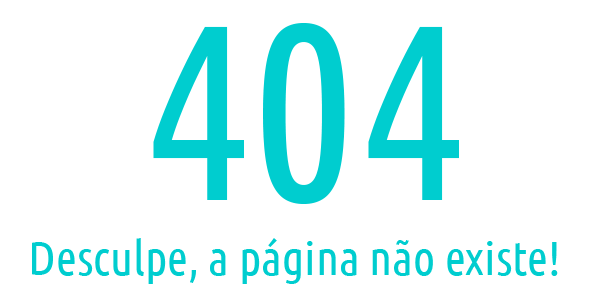
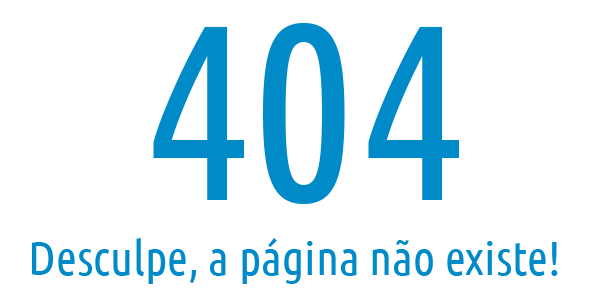
Cores do site finalizadas!

Changed region(s): [[0.24, 0.06, 0.78, 0.69], [0.03, 0.78, 0.93, 0.96]]

diff --git a/assets/css/main.css b/assets/css/main.css
@@ -1765,7 +1765,7 @@
 	}
 
 	a {
-		color: #00cdcf;
+		color: #008ac8;
 	}
 
 	strong, b {
@@ -1976,7 +1976,7 @@
 		input[type="button"].special,
 		button.special,
 		.button.special {
-			background-color: #00cdcf;
+			background-color: #008ac8;
 			color: #ffffff !important;
 		}
 
@@ -2220,8 +2220,8 @@
 		input[type="email"]:focus,
 		select:focus,
 		textarea:focus {
-			border-color: #00cdcf;
-			box-shadow: 0 0 0 1px #00cdcf;
+			border-color: #008ac8;
+			box-shadow: 0 0 0 1px #008ac8;
 		}
 
 	.select-wrapper:before {
@@ -2241,15 +2241,15 @@
 
 	input[type="checkbox"]:checked + label:before,
 	input[type="radio"]:checked + label:before {
-		background-color: #00cdcf;
-		border-color: #00cdcf;
+		background-color: #008ac8;
+		border-color: #008ac8;
 		color: #ffffff;
 	}
 
 	input[type="checkbox"]:focus + label:before,
 	input[type="radio"]:focus + label:before {
-		border-color: #00cdcf;
-		box-shadow: 0 0 0 1px #00cdcf;
+		border-color: #008ac8;
+		box-shadow: 0 0 0 1px #008ac8;
 	}
 
 	::-webkit-input-placeholder {
@@ -2752,7 +2752,7 @@
 	}
 
 		.feature .fa {
-			color: #00cdcf;
+			color: #008ac8;
 		}
 
 /* Wrapper */
@@ -2772,7 +2772,7 @@
 			}
 
 		.wrapper.style1 {
-			background-color: #00cdcf;
+			background-color: #008ac8;
 			color: #ffffff;
 		}
 
@@ -2781,7 +2781,7 @@
 			}
 
 			.wrapper.style1 a {
-				color: #00cdcf;
+				color: #008ac8;
 			}
 
 			.wrapper.style1 strong, .wrapper.style1 b {
@@ -2911,8 +2911,8 @@
 				.wrapper.style1 input[type="email"]:focus,
 				.wrapper.style1 select:focus,
 				.wrapper.style1 textarea:focus {
-					border-color: #00cdcf;
-					box-shadow: 0 0 0 1px #00cdcf;
+					border-color: #008ac8;
+					box-shadow: 0 0 0 1px #008ac8;
 				}
 
 			.wrapper.style1 .select-wrapper:before {
@@ -2932,15 +2932,15 @@
 
 			.wrapper.style1 input[type="checkbox"]:checked + label:before,
 			.wrapper.style1 input[type="radio"]:checked + label:before {
-				background-color: #00cdcf;
-				border-color: #00cdcf;
+				background-color: #008ac8;
+				border-color: #008ac8;
 				color: #ffffff;
 			}
 
 			.wrapper.style1 input[type="checkbox"]:focus + label:before,
 			.wrapper.style1 input[type="radio"]:focus + label:before {
-				border-color: #00cdcf;
-				box-shadow: 0 0 0 1px #00cdcf;
+				border-color: #008ac8;
+				box-shadow: 0 0 0 1px #008ac8;
 			}
 
 			.wrapper.style1 ::-webkit-input-placeholder {
@@ -3017,7 +3017,7 @@
 			}
 
 			.wrapper.style2 a {
-				color: #00cdcf;
+				color: #008ac8;
 			}
 
 			.wrapper.style2 strong, .wrapper.style2 b {
@@ -3093,7 +3093,7 @@
 				.wrapper.style2 input[type="button"].special,
 				.wrapper.style2 button.special,
 				.wrapper.style2 .button.special {
-					background-color: #00cdcf;
+					background-color: #008ac8;
 					color: #ffffff !important;
 				}
 
@@ -3131,8 +3131,8 @@
 				.wrapper.style2 input[type="email"]:focus,
 				.wrapper.style2 select:focus,
 				.wrapper.style2 textarea:focus {
-					border-color: #00cdcf;
-					box-shadow: 0 0 0 1px #00cdcf;
+					border-color: #008ac8;
+					box-shadow: 0 0 0 1px #008ac8;
 				}
 
 			.wrapper.style2 .select-wrapper:before {
@@ -3152,15 +3152,15 @@
 
 			.wrapper.style2 input[type="checkbox"]:checked + label:before,
 			.wrapper.style2 input[type="radio"]:checked + label:before {
-				background-color: #00cdcf;
-				border-color: #00cdcf;
+				background-color: #008ac8;
+				border-color: #008ac8;
 				color: #ffffff;
 			}
 
 			.wrapper.style2 input[type="checkbox"]:focus + label:before,
 			.wrapper.style2 input[type="radio"]:focus + label:before {
-				border-color: #00cdcf;
-				box-shadow: 0 0 0 1px #00cdcf;
+				border-color: #008ac8;
+				box-shadow: 0 0 0 1px #008ac8;
 			}
 
 			.wrapper.style2 ::-webkit-input-placeholder {
@@ -3224,7 +3224,7 @@
 			}
 
 				.wrapper.style2 .feature .fa {
-					color: #00cdcf;
+					color: #008ac8;
 				}
 
 		.wrapper.style3 {
@@ -3237,7 +3237,7 @@
 			}
 
 			.wrapper.style3 a {
-				color: #00cdcf;
+				color: #008ac8;
 			}
 
 			.wrapper.style3 strong, .wrapper.style3 b {
@@ -3321,7 +3321,7 @@
 					.wrapper.style3 input[type="button"].alt.icon:before,
 					.wrapper.style3 button.alt.icon:before,
 					.wrapper.style3 .button.alt.icon:before {
-						color: #00cdcf;
+						color: #008ac8;
 					}
 
 				.wrapper.style3 input[type="submit"].special,
@@ -3329,7 +3329,7 @@
 				.wrapper.style3 input[type="button"].special,
 				.wrapper.style3 button.special,
 				.wrapper.style3 .button.special {
-					background-color: #00cdcf;
+					background-color: #008ac8;
 					color: #ffffff !important;
 				}
 
@@ -3367,8 +3367,8 @@
 				.wrapper.style3 input[type="email"]:focus,
 				.wrapper.style3 select:focus,
 				.wrapper.style3 textarea:focus {
-					border-color: #00cdcf;
-					box-shadow: 0 0 0 1px #00cdcf;
+					border-color: #008ac8;
+					box-shadow: 0 0 0 1px #008ac8;
 				}
 
 			.wrapper.style3 .select-wrapper:before {
@@ -3388,15 +3388,15 @@
 
 			.wrapper.style3 input[type="checkbox"]:checked + label:before,
 			.wrapper.style3 input[type="radio"]:checked + label:before {
-				background-color: #00cdcf;
-				border-color: #00cdcf;
+				background-color: #008ac8;
+				border-color: #008ac8;
 				color: #ffffff;
 			}
 
 			.wrapper.style3 input[type="checkbox"]:focus + label:before,
 			.wrapper.style3 input[type="radio"]:focus + label:before {
-				border-color: #00cdcf;
-				box-shadow: 0 0 0 1px #00cdcf;
+				border-color: #008ac8;
+				box-shadow: 0 0 0 1px #008ac8;
 			}
 
 			.wrapper.style3 ::-webkit-input-placeholder {
@@ -3428,7 +3428,7 @@
 			}
 
 			.wrapper.style3 header p {
-				color: #00cdcf;
+				color: #008ac8;
 			}
 
 			.wrapper.style3 table tbody tr {
@@ -3460,7 +3460,7 @@
 			}
 
 				.wrapper.style3 .feature .fa {
-					color: #00cdcf;
+					color: #008ac8;
 				}
 
 		@media screen and (max-width: 1280px) {
@@ -3525,7 +3525,7 @@
 		}
 
 		#banner a {
-			color: #00cdcf;
+			color: #008ac8;
 		}
 
 		#banner strong, #banner b {
@@ -3738,7 +3738,7 @@
 		}
 
 		#footer a {
-			color: #00cdcf;
+			color: #008ac8;
 		}
 
 		#footer strong, #footer b {

diff --git a/index.html b/index.html
@@ -31,6 +31,7 @@
 					<li class="items"><a href="parceiro.html">Parceiros</a></li>
 					<li class="items"><a href="contato.html">Contato</a></li>
 					<li class="items"><a href="sobre.html">Sobre</a></li>
+					<input id="night-mode" class="lamp" type="checkbox" aria-label="night-mode" />
 					<li class="btn"><a href="#"><i class="fas fa-bars"></i></a></li>
 				</ul>
 				</nav>

diff --git a/assets/css/menu.css b/assets/css/menu.css
@@ -23,7 +23,7 @@ nav ul li{
 nav ul li.items{
   position: none;
   width: auto;
-  margin: 0 1px;
+  margin: 0 0px;
   text-align: center;
   order: 3;
 }
@@ -40,7 +40,7 @@ nav ul li.items:after{
 }
 nav ul li.items:hover:after{
   opacity: 1;
-  bottom: 8px;
+  bottom: 5px;
 }
 nav ul li.logo{
   flex: 1;
